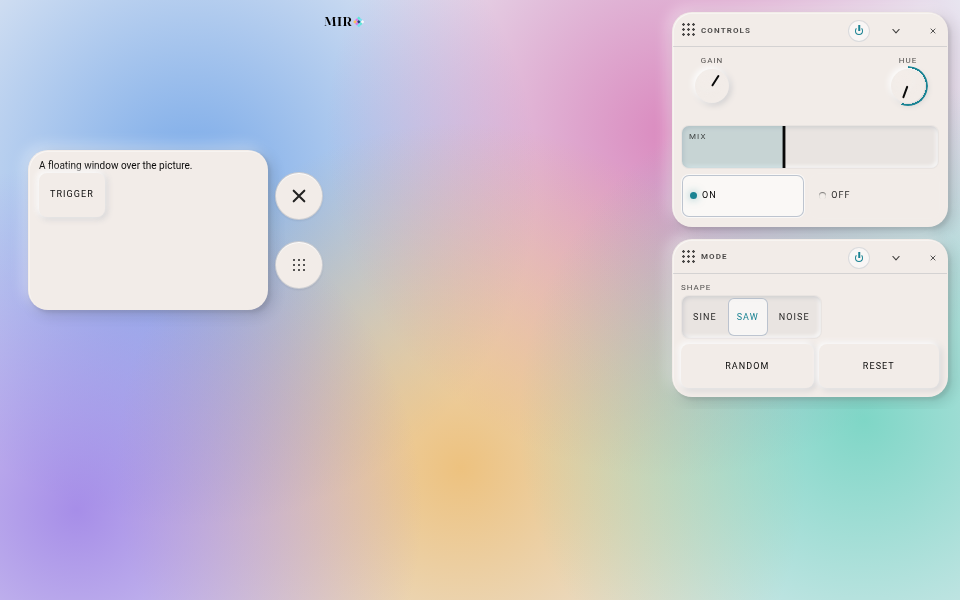
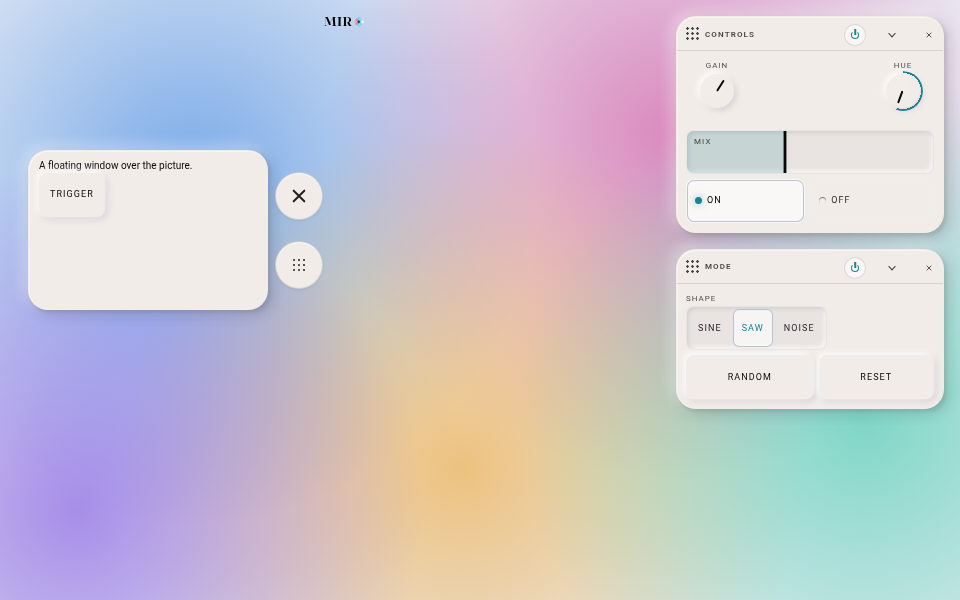
MIR 1.5.0-alpha.5: VANILLA — SPACING is BASINS' three levels
0 · TIGHT · DEFAULT as BASINS' fix chose them (gap / inset / pane padding:
0/0/6, 3/3/6, 6/6/8; DEFAULT the default) and AIRY (16/16/9, an invention) after
them; --rail-gap 0 · 2 · 4 · 6 for docked chip rails.  A seg row in the GUI
window; themes carry the level.  Plates: spacing-0, -tight, -default.

Claude-Session: https://claude.ai/code/session_01216PZJdRDXuZKuuo4X6KUw

Changed region(s): [[0.6875, 0.0, 1.0, 0.69], [0.875, 0.6, 0.9375, 0.63], [0.75, 0.6, 0.8125, 0.63]]

diff --git a/mir/shell/themes.js b/mir/shell/themes.js
@@ -26,7 +26,7 @@ export const THEME_KEYS = Object.freeze(['card', 'frost', 'blur', 'veil', 'satur
 
 /* what a theme does not say: the kit's own home for each (shell/gui.js lookSchema defaults, before FROST) */
 const BASE = { card: 'tinted', frost: 'off', blur: 11, veil: 10, saturation: 1, corners: 14, faces: 'solid', faceBlend: 0, text: 'theme', relief: 'default', edge: true,
-  lightAngle: 0, shadow: 1, shadowDist: 2, shadowSoft: 8, shine: 0, shineSoft: 12, dropShadow: true, disconnected: false, spacing: 0.63, motion: 'auto', glow: true, parallax: true, quality: 'full' };
+  lightAngle: 0, shadow: 1, shadowDist: 2, shadowSoft: 8, shine: 0, shineSoft: 12, dropShadow: true, disconnected: false, spacing: 'default', motion: 'auto', glow: true, parallax: true, quality: 'full' };
 const tone = (id, name, hue, tint, bright, accentA, accentB, vivid) => ({ id, name, values: { hue, tint, bright, accentA, accentB, vivid } });
 
 /* ── THE TABLE ─────────────────────────────────────────────────────────────────────────────────────────────────────
@@ -37,25 +37,25 @@ const TABLE = [   // tr: names
      Refractive on and frost always."  BASINS' ABOUT GLASS draws no pane edge (material.css), so EDGE is off.  The white
      text belongs to dark mode: TEXT is AUTO, which under glass is BASINS' pure ladder in the mode's polarity — white in
      dark (the recipe, exactly), black in light. */
-  { id: 'frost', name: 'FROST', values: { card: 'refractive', frost: 'always', blur: 11, veil: 0, saturation: 1.3, corners: 24, faces: 'glass', text: 'theme', edge: false, shadow: 2, spacing: 0.4 },
+  { id: 'frost', name: 'FROST', values: { card: 'refractive', frost: 'always', blur: 11, veil: 0, saturation: 1.3, corners: 24, faces: 'glass', text: 'theme', edge: false, shadow: 2, spacing: 'default' },
     tones: [tone('clear', 'CLEAR', 0, 0, 0, 30, 300, 0.1), tone('rose', 'ROSE', 340, 0.22, 0, 345, 300, 0.25), tone('azure', 'AZURE', 205, 0.28, 0, 200, 280, 0.25)] },
   /* MORPH — neumorphism: the SOLID pane, the light at the upper left, a drop shadow bottom-right and the shine upper-left
      (Josh: "So bottom right shadow, upper left shine"), faces the pane's colour, soft corners, no edge. */
-  { id: 'morph', name: 'MORPH', values: { card: 'solid', corners: 20, edge: false, lightAngle: 315, shadow: 1.4, shadowDist: 6, shadowSoft: 14, shine: 0.7, shineSoft: 14, glow: false, parallax: false, spacing: 0.75 },
+  { id: 'morph', name: 'MORPH', values: { card: 'solid', corners: 20, edge: false, lightAngle: 315, shadow: 1.4, shadowDist: 6, shadowSoft: 14, shine: 0.7, shineSoft: 14, glow: false, parallax: false, spacing: 'airy' },
     tones: [tone('clay', 'CLAY', 24, 0.16, 0, 30, 300, 0.1), tone('mint', 'MINT', 150, 0.18, 0, 140, 300, 0.1), tone('lilac', 'LILAC', 268, 0.2, 0, 280, 30, 0.1), tone('slate', 'SLATE', 0, 0, 0, 30, 300, 0.1)] },
   /* CLASSIC — the 1.4 spirit: the tinted pane, solid faces, the relief, the house corner and veil, and 1.4's 22 px blur. */
   { id: 'classic', name: 'CLASSIC', values: { blur: 22 },
     tones: [tone('house', 'HOUSE', 0, 0, 0, 30, 300, 0.1), tone('ink', 'INK', 214, 0.2, 0, 200, 300, 0.1), tone('ember', 'EMBER', 18, 0.18, 0, 20, 300, 0.15)] },
   /* SWIFT — the high-performance one: SOLID, no blur, no shadow, no shine, flat controls, motion off, pointer glow and
      parallax off, the flat tier.  (It replaces the preset called LIGHT: the name was ambiguous with the light theme.) */
-  { id: 'swift', name: 'SWIFT', values: { card: 'solid', relief: 'flat', shadow: 0, motion: 'off', glow: false, parallax: false, quality: 'light', spacing: 0.25 },
+  { id: 'swift', name: 'SWIFT', values: { card: 'solid', relief: 'flat', shadow: 0, motion: 'off', glow: false, parallax: false, quality: 'light', spacing: 'tight' },
     tones: [tone('graphite', 'GRAPHITE', 0, 0, 0, 30, 300, 0.1), tone('sand', 'SAND', 40, 0.14, 0, 40, 300, 0.1), tone('steel', 'STEEL', 210, 0.16, 0, 200, 300, 0.1)] },
   /* AURORA — the flashy one: refractive, saturation up, a strong shine, vivid accents, pointer glow and parallax on. */
-  { id: 'aurora', name: 'AURORA', values: { card: 'refractive', frost: 'always', blur: 16, veil: 6, saturation: 1.8, corners: 22, faces: 'glass', edge: true, shadow: 1.5, shadowDist: 3, shadowSoft: 14, shine: 1, shineSoft: 18, spacing: 0.5 },
+  { id: 'aurora', name: 'AURORA', values: { card: 'refractive', frost: 'always', blur: 16, veil: 6, saturation: 1.8, corners: 22, faces: 'glass', edge: true, shadow: 1.5, shadowDist: 3, shadowSoft: 14, shine: 1, shineSoft: 18, spacing: 'default' },
     tones: [tone('borealis', 'BOREALIS', 160, 0.3, 0, 120, 280, 0.8), tone('dusk', 'DUSK', 300, 0.3, 0, 320, 40, 0.7), tone('solar', 'SOLAR', 40, 0.3, 0, 45, 200, 0.8)] },
   /* NEON — near-black SOLID panes, accents at full strength with their glow, everything else quiet (no pane shadow, no edge).
      A dark-pane theme in either mode, so it states THEME dark. */
-  { id: 'neon', name: 'NEON', values: { theme: 'dark', card: 'solid', corners: 10, edge: false, shadow: 0, parallax: false, spacing: 0.2 },
+  { id: 'neon', name: 'NEON', values: { theme: 'dark', card: 'solid', corners: 10, edge: false, shadow: 0, parallax: false, spacing: 'tight' },
     tones: [tone('volt', 'VOLT', 0, 0, -0.26, 110, 300, 1), tone('magenta', 'MAGENTA', 300, 0.25, -0.26, 300, 180, 1), tone('cyan', 'CYAN', 190, 0.25, -0.26, 180, 330, 1)] },
 ];
 

diff --git a/mir/shell/gui.js b/mir/shell/gui.js
@@ -131,12 +131,14 @@ export function lookSchema() {
       ...['--surface-shadow', '--surface-shadow-float', '--surface-shadow-menu'].map((prop) => ({ on: 'body', prop, map: (v, s) => (offShadow(s) ? ZERO_SHADOW : null) }))] },
     { key: 'disconnected', type: 'bool', default: false, apply: [{ on: 'body', cls: 'disconnected' }] },
     /* SPACING — the rack's air (Josh, 2026-10-01: "the dock margins are too large … an option for 0 padding/margins"):
-       one dial, 0–100 %, to --rack-gap, --rack-inset and --pane-pad (core/look.js spacingPx); 0 is flush (html[data-flush]) */
-    { key: 'spacing', type: 'number', step: 0.01, min: 0, max: 1, default: 0.4, apply: [
+       BASINS' levels 0 · TIGHT · DEFAULT (and AIRY, this kit's) to --rack-gap, --rack-inset, --pane-pad and --rail-gap
+       (core/look.js SPACING); 0 is flush (html[data-flush]) */
+    { key: 'spacing', type: 'enum', values: ['0', 'tight', 'default', 'airy'], default: 'default', apply: [
       { on: 'html', prop: '--rack-gap', map: (v) => spacingPx(v).gap + 'px' },
       { on: 'html', prop: '--rack-inset', map: (v) => spacingPx(v).inset + 'px' },
       { on: 'html', prop: '--pane-pad', map: (v) => spacingPx(v).pad + 'px' },
-      { on: 'html', attr: 'data-flush', map: (v) => (v === 0 ? '' : null) }] },
+      { on: 'html', prop: '--rail-gap', map: (v) => spacingPx(v).rail + 'px' },
+      { on: 'html', attr: 'data-flush', map: (v) => (v === '0' ? '' : null) }] },
     { key: 'motion', type: 'enum', values: ['auto', 'full', 'reduced', 'off'], default: 'auto', apply: [{ run: (v) => setMotionPolicy(v) }] },
     { key: 'glow', type: 'bool', default: true },                    // fx/pointer-light.js — off on touch by its own law (ruling 13)
     { key: 'parallax', type: 'bool', default: true },                // fx/parallax.js
@@ -358,8 +360,8 @@ export function createGui({ host, prefs, app = {}, about = {}, accent, defaults 
   g = groupEl('windows', phrase('WINDOWS'));
   line(g, 'gui-sws gui-col').append(swOf('dropShadow', phrase('DROP SHADOW'), phrase('Pane shadows ({:SHADOW} sets their strength)')).root, swOf('edge', phrase('EDGE'), phrase('The pane’s hairline rim')).root,
     swOf('disconnected', phrase('DISCONNECTED'), phrase('Separate window headers from their bodies')).root);
-  const kSpace = knobOf('spacing', phrase('SPACING'), { ...hundred, title: 'The rack\u2019s air: between its windows, from the screen\u2019s edge and inside each window. 0% is flush.' });
-  line(g, 'gui-knobs').append(kSpace.root, seat(), seat());
+  line(g).append(segOf('spacing', phrase('SPACING'), [['0', '0', phrase('Rack windows flush to each other and to the screen’s edge')], ['tight', phrase('TIGHT'), phrase('3 px between rack windows and from the edge')],
+    ['default', phrase('DEFAULT'), phrase('6 px between rack windows and from the edge')], ['airy', phrase('AIRY'), phrase('16 px between rack windows and from the edge')]]).root);   // BASINS' row (settings-window.js), and AIRY
 
   /* ── ABOUT ── */
   const ab = el('div', 'gui-page gui-about');

diff --git a/mir/core/look.js b/mir/core/look.js
@@ -13,7 +13,7 @@
  *     left).  A shadow falls away from it, the shine sits toward it.  The sheets draw both with CSS sin()/cos() from
  *     `--light-angle`; lightOffset() is the same arithmetic for a test or a script.
  *
- * Exports: THEME_GLASS, hslRgb, glassTint, glassVeil, paneShadow, lightOffset, lightIsHome, paneLightness, solidInk, spacingPx,
+ * Exports: THEME_GLASS, hslRgb, glassTint, glassVeil, paneShadow, lightOffset, lightIsHome, paneLightness, solidInk, SPACING, spacingPx,
  *          LIGHT_HOME. */
 
 /** the theme's own glass, as the kit ships it (skin.css :root and body[data-theme="light"]): the tinted pane's H S L
@@ -82,12 +82,15 @@ export function paneLightness(o, theme) { return Math.max(2, Math.min(98, T(them
 /** solidInk(state, theme) → 'light' (white ink) on a dark pane, 'dark' (black ink) on a light one: no sampling */
 export function solidInk(o, theme) { return paneLightness(o, theme) > 55 ? 'dark' : 'light'; }
 
-/** spacingPx(spacing 0…1) → { gap, inset, pad } in px: the gap between rack windows and their inset from the screen's
- *  edge are 16·s, the padding inside a window 3 + 6.4·s; 0 is flush (all three 0).  The kit before SPACING was gap 10,
- *  inset 10, padding 7 · 7 · 10 (≈ s .63); the default is s .4: gap 6, inset 6, padding 6. */
-export function spacingPx(s) {
-  const v = Math.max(0, Math.min(1, num(s, 0.4)));
-  return v === 0 ? { gap: 0, inset: 0, pad: 0 } : { gap: Math.round(16 * v), inset: Math.round(16 * v), pad: Math.round(3 + 6.4 * v) };
+/** SPACING, BASINS' three levels (app/skin.js SPACING, Josh 2026-10-01) and one more: px for [the gap between rack
+ *  windows, the rack's inset from the screen's edge, the padding inside a pane, the gap in a docked chip rail].  A pane's
+ *  padding never goes under 6 px, so no control touches its edge.  0 is flush (square panes, no shadow inside the slab).
+ *  AIRY is this kit's invention, after DEFAULT.  The kit before SPACING was 10 · 10 · 7–10. */
+export const SPACING = Object.freeze({ 0: [0, 0, 6, 0], tight: [3, 3, 6, 2], default: [6, 6, 8, 4], airy: [16, 16, 9, 6] });
+/** spacingPx(level) → { gap, inset, pad, rail } in px (an unknown level is DEFAULT) */
+export function spacingPx(level) {
+  const [gap, inset, pad, rail] = SPACING[level] || SPACING.default;
+  return { gap, inset, pad, rail };
 }
 
 /** solidRelief(state, theme) → { lift, sink, gain } — the SOLID relief's mixes as functions of the pane's lightness L

diff --git a/docs/THEMES.md b/docs/THEMES.md
@@ -8,12 +8,12 @@ See them all at `gallery/themes.html` (every theme × every tone, live; click on
 
 | Theme | What it is | Its settings (beyond the kit's home) | Tones |
 |---|---|---|---|
-| **FROST** | Glassmorphism. Josh's recipe, the new user's look | REFRACTIVE, FROST always, BLUR 11, VEIL 0, SATURATION 130 %, CORNERS 24, CONTROL FACES glass, TEXT auto (white in dark, as the recipe says; black in light), EDGE off, SHADOW 200 %, SPACING 40 % | CLEAR · ROSE · AZURE |
-| **MORPH** | Neumorphism | SOLID, CORNERS 20, EDGE off, LIGHT ANGLE 315° (upper left), SHADOW 140 %, DISTANCE 6, SOFTNESS 14, SHINE 70 %, SHINE SOFT 14, glow and parallax off, SPACING 75 % | CLAY · MINT · LILAC · SLATE |
-| **CLASSIC** | The 1.4 spirit | TINTED, solid faces, the relief, CORNERS 14, the house veil, BLUR 22 (1.4's own), SPACING 63 % (1.4's 10 px gap) | HOUSE · INK · EMBER |
-| **SWIFT** | The fast one (it replaces the preset called LIGHT) | SOLID, relief FLAT, SHADOW 0, MOTION off, glow and parallax off, QUALITY light (the flat tier), SPACING 25 % | GRAPHITE · SAND · STEEL |
-| **AURORA** | The flashy one | REFRACTIVE, FROST always, BLUR 16, VEIL 6, SATURATION 180 %, CORNERS 22, glass faces, SHADOW 150 %, DISTANCE 3, SOFTNESS 14, SHINE 100 %, SHINE SOFT 18, vivid accents, SPACING 50 % | BOREALIS · DUSK · SOLAR |
-| **NEON** | Near-black panes, accents at full strength: a dark theme in either mode | THEME dark, SOLID, CORNERS 10, EDGE off, SHADOW 0, parallax off, BRIGHT −26 and VIVID 100 % in every tone, SPACING 20 % | VOLT · MAGENTA · CYAN |
+| **FROST** | Glassmorphism. Josh's recipe, the new user's look | REFRACTIVE, FROST always, BLUR 11, VEIL 0, SATURATION 130 %, CORNERS 24, CONTROL FACES glass, TEXT auto (white in dark, as the recipe says; black in light), EDGE off, SHADOW 200 %, SPACING DEFAULT | CLEAR · ROSE · AZURE |
+| **MORPH** | Neumorphism | SOLID, CORNERS 20, EDGE off, LIGHT ANGLE 315° (upper left), SHADOW 140 %, DISTANCE 6, SOFTNESS 14, SHINE 70 %, SHINE SOFT 14, glow and parallax off, SPACING AIRY | CLAY · MINT · LILAC · SLATE |
+| **CLASSIC** | The 1.4 spirit | TINTED, solid faces, the relief, CORNERS 14, the house veil, BLUR 22 (1.4's own), SPACING DEFAULT | HOUSE · INK · EMBER |
+| **SWIFT** | The fast one (it replaces the preset called LIGHT) | SOLID, relief FLAT, SHADOW 0, MOTION off, glow and parallax off, QUALITY light (the flat tier), SPACING TIGHT | GRAPHITE · SAND · STEEL |
+| **AURORA** | The flashy one | REFRACTIVE, FROST always, BLUR 16, VEIL 6, SATURATION 180 %, CORNERS 22, glass faces, SHADOW 150 %, DISTANCE 3, SOFTNESS 14, SHINE 100 %, SHINE SOFT 18, vivid accents, SPACING DEFAULT | BOREALIS · DUSK · SOLAR |
+| **NEON** | Near-black panes, accents at full strength: a dark theme in either mode | THEME dark, SOLID, CORNERS 10, EDGE off, SHADOW 0, parallax off, BRIGHT −26 and VIVID 100 % in every tone, SPACING TIGHT | VOLT · MAGENTA · CYAN |
 
 FROST is Josh's; MORPH and CLASSIC are named in the plan; **AURORA, NEON, SWIFT and every tone name are inventions** (Josh rename and cut freely: each is one line of the table in `mir/shell/themes.js`).
 
@@ -36,7 +36,7 @@ All are options of the GUI window's look store (`docs/GUI.md` has every option a
 | **LIGHT ANGLE** | 0–360° (an arc) | Where the one light is, clockwise from straight up. Pane shadows fall away from it, the shine sits toward it, and the controls' relief turns with it | Josh ("bottom right shadow, upper left shine") |
 | DISTANCE · SOFTNESS | 0–24 px · 0–48 px | How far the shadow falls and how soft it is (the shine uses the same distance) | invention |
 | **SHINE** · SHINE SOFT | 0–100 % · 0–48 px | The shadow's opposite: a light 180° across, blended additively | Josh ("set blend mode to 'add' which is shine") |
-| **SPACING** | 0–100 % | The rack's air: the gap between its windows and its inset from the screen's edge are 16 px × SPACING, the padding inside a window 3 + 6.4 px × SPACING. 0 is flush | Josh ("an option for 0 padding/margins for the rack windows and the edge of the screen") |
+| **SPACING** | 0 · TIGHT · DEFAULT · AIRY | The rack's air: the gap between its windows, its inset from the screen's edge, the padding inside a pane and the gap in a docked chip rail (`--rack-gap`, `--rack-inset`, `--pane-pad`, `--rail-gap`). 0 is flush | Josh ("an option for 0 padding/margins …"); the levels are BASINS' (`skin.js SPACING`); AIRY is an invention |
 
 ### One light
 
@@ -69,14 +69,15 @@ INTENT does not change: a dent is a well or a press, never ON or chosen; ON keep
 
 At 0 (`html[data-flush]`) the rack's windows meet each other and the screen's edge. To leave no sliver of picture and no doubled edge, a rack window in the flush column is **square** (`--surface-radius: 0`), draws **no drop shadow and no shine** (the column is one slab: a shadow would fall across its neighbour), and its top hairline is hidden so only one hairline separates two windows. A window that floats keeps its corner and its shadow. Above 0 nothing of this applies.
 
-| SPACING | gap | inset | padding inside |
-|---|---|---|---|
-| before this release (no setting) | 10 px | 10 px | 7 · 7 · 10 px |
-| **FROST's default, 40 %** | 6 px | 6 px | 6 px |
-| 0 % | 0 | 0 | 0 |
-| 100 % | 16 px | 16 px | 9 px |
+| SPACING | gap | inset | padding inside | chip rail |
+|---|---|---|---|---|
+| before this release (no setting) | 10 px | 10 px | 7 · 7 · 10 px | — |
+| 0 (BASINS) | 0 | 0 | 6 px | 0 |
+| TIGHT (BASINS; SWIFT, NEON) | 3 px | 3 px | 6 px | 2 px |
+| **DEFAULT** (BASINS; FROST, CLASSIC, AURORA) | 6 px | 6 px | 8 px | 4 px |
+| AIRY (invention; MORPH) | 16 px | 16 px | 9 px | 6 px |
 
-The new default is tighter than 1.4's (Josh: "the dock margins are too large"); a control never touches a pane's edge at the default, and coarse-pointer targets keep their 44 px seats. The rack's dock guides and the transport's dodge read the rack's computed padding, so they follow.
+The levels and numbers are BASINS' (Josh's fix, 2026-10-01: `app/skin.js SPACING`, Settings › DISPLAY › SPACING); AIRY is a fourth step after them. A pane's padding never goes under 6 px, so no control touches its edge, and coarse-pointer targets keep their 44 px seats. The rack's dock guides and the transport's dodge read the rack's computed padding, so they follow.
 
 ## Contrast, every tile in both modes
 

diff --git a/docs/GUI.md b/docs/GUI.md
@@ -110,7 +110,7 @@ Every control on MIR OPTIONS changes what is drawn through a hook a kit sheet or
 | WINDOWS (page 2) | DROP SHADOW | switch | off: `--surface-shadow`, `-float`, `-menu` = `0 0 0 0 transparent` on `<body>` | on |
 | | EDGE | switch | off: `--pane-edge: transparent` on `<body>` (window panes; menus and popovers keep their rim) | on (FROST: off) |
 | | DISCONNECTED | switch | `body.disconnected` | off |
-| | SPACING 0–100 % | dial | `--rack-gap`, `--rack-inset`, `--pane-pad` on `<html>`; 0 is `html[data-flush]` | 40 % |
+| | SPACING 0 · TIGHT · DEFAULT · AIRY | seg | BASINS' row (AIRY added): `--rack-gap`, `--rack-inset`, `--pane-pad`, `--rail-gap` on `<html>`; 0 is `html[data-flush]` (`docs/THEMES.md`) | DEFAULT |
 
 **The themes** (`docs/THEMES.md`) set every option but THEME (light · dark · system), HINTS, HELP and DROP GUIDES, which are the user's own; their tones set only the colours.
 
